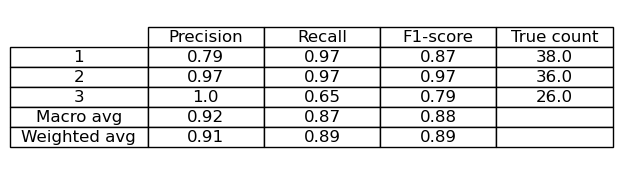
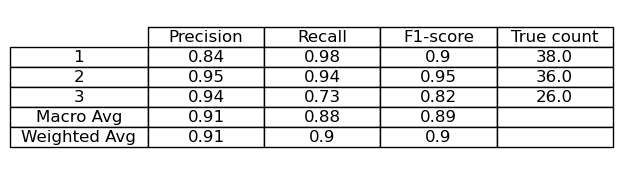
Completed code for q4e.

diff --git a/src/utils/_ml.py b/src/utils/_ml.py
@@ -2,6 +2,105 @@ import numpy as np
 import pandas as pd
 from sklearn.preprocessing import StandardScaler
 from sklearn.decomposition import PCA
+from sklearn.metrics import (
+    precision_recall_fscore_support,
+    accuracy_score,
+    confusion_matrix,
+)
+from sklearn.model_selection import StratifiedKFold
+from numpy.typing import NDArray
+
+
+def cross_validate_report(
+    X: NDArray,
+    y: NDArray,
+    model,
+    n_splits: int = 5,
+    random_state: int = 3438,
+):
+    """
+    1 - Take a model, and dataset
+    2 - Use k-fold cross validation to compute the classification report, confusion matrix and test set classification
+           error for each fold. The average of these values is returned.
+    """
+    kf = StratifiedKFold(n_splits=n_splits, shuffle=True, random_state=random_state)
+
+    accuracy_scores = np.array([])
+
+    precision_scores = np.empty((0, 5))
+    recall_scores = np.empty((0, 5))
+    f1_scores = np.empty((0, 5))
+    support_list = np.empty((0, 3))
+
+    # confusion matrix
+    cmatrix = np.zeros((3, 3))
+
+    for train_index, test_index in kf.split(X, y):
+        X_train, X_test = X[train_index], X[test_index]
+        y_test, y_pred = (
+            y[test_index],
+            model.fit(X_train, y[train_index]).predict(X_test),
+        )
+
+        cmatrix += confusion_matrix(y_test, y_pred, labels=[1, 2, 3], normalize='all')
+
+        precision, recall, f1_score, support = precision_recall_fscore_support(
+            y_test, y_pred, average=None
+        )
+
+        weighted_avg = precision_recall_fscore_support(
+            y_test, y_pred, average='weighted'
+        )[0:3]
+        macro_avg = precision_recall_fscore_support(y_test, y_pred, average='macro')[
+            0:3
+        ]
+
+        accuracy_scores = np.append(accuracy_scores, accuracy_score(y_test, y_pred))
+
+        precision_scores = np.vstack(
+            [
+                precision_scores,
+                np.concatenate([precision, [macro_avg[0]], [weighted_avg[0]]], axis=0),
+            ]
+        )
+
+        recall_scores = np.vstack(
+            [
+                recall_scores,
+                np.concatenate([recall, [macro_avg[1]], [weighted_avg[1]]], axis=0),
+            ]
+        )
+
+        f1_scores = np.vstack(
+            [
+                f1_scores,
+                np.concatenate([f1_score, [macro_avg[2]], [weighted_avg[2]]], axis=0),
+            ]
+        )
+
+        support_list = np.vstack([support_list, support])
+
+    report = pd.DataFrame(
+        {
+            'Precision': precision_scores.mean(axis=0),
+            'Recall': recall_scores.mean(axis=0),
+            'F1-score': f1_scores.mean(axis=0),
+            'True count': np.concatenate(
+                [np.round(support_list.mean(axis=0), 0), [0, 0]]
+            ),
+        },
+        index=['1', '2', '3', 'Macro Avg', 'Weighted Avg'],
+    )
+
+    cmatrix = pd.DataFrame(
+        cmatrix / n_splits, index=['1', '2', '3'], columns=['1', '2', '3']
+    )
+    cmatrix['Total'] = cmatrix.sum(axis=1)
+    cmatrix.loc['Total'] = cmatrix.sum(axis=0)
+
+    test_set_classification_error = 1 - accuracy_scores.mean()
+
+    return report, cmatrix, test_set_classification_error
 
 
 def identify_most_discriminative_features(

diff --git a/src/q4/scripts/_q4e.py b/src/q4/scripts/_q4e.py
@@ -1,0 +1,108 @@
+import os
+import pandas as pd
+from sklearn.ensemble import RandomForestClassifier
+from sklearn.model_selection import train_test_split
+import numpy as np
+import matplotlib.pyplot as plt
+from src.utils import (
+    format_axes,
+    save_fig,
+    cross_validate_report,
+    format_contingency_table,
+    create_table,
+)
+
+
+def plot_gini_importance(feature_importance: pd.DataFrame):
+    fig, ax = plt.subplots(figsize=(8, 5))
+
+    plt.plot(feature_importance['cumulative_importance'])
+
+    plt.xlabel('Number of Features')
+    plt.ylabel('Cumulative Gini Importance')
+
+    plt.axhline(y=0.95, color='grey', linestyle='--')
+    plt.axvline(x=319, color='grey', linestyle='--')
+
+    plt.text(330, 0.01, '319', fontsize=10, color='grey')
+    ax.autoscale(enable=True, tight=True, axis='x')
+
+    format_axes(ax)
+
+    save_fig(__file__, 'q4e_gini_importance.png')
+
+
+def compute_most_important_features(X: np.ndarray, y: np.ndarray):
+    X = X.copy()
+    y = y.copy()
+
+    # The `stratify=y` gives y_test.value_counts() of {1: 41, 2: 35, 3: 24}
+    X_train, X_test, y_train, y_test = train_test_split(
+        X, y, test_size=0.2, random_state=3438, stratify=y
+    )
+
+    clf = RandomForestClassifier(random_state=3438)
+
+    clf.fit(X_train, y_train)
+
+    feature_importance = (
+        pd.DataFrame(clf.feature_importances_)
+        .reset_index()
+        .rename(columns={0: 'gini_importance', 'index': 'feature'})
+        .sort_values('gini_importance', ascending=False)
+        .reset_index(drop=True)
+    )
+
+    feature_importance['feature'] = [
+        f'Fea{feature + 1}' for feature in feature_importance['feature']
+    ]
+    feature_importance['cumulative_importance'] = feature_importance[
+        'gini_importance'
+    ].cumsum()
+
+    most_importance_features = feature_importance[
+        feature_importance['cumulative_importance'].round(4) <= 0.95
+    ]
+
+    return feature_importance, most_importance_features
+
+
+def q4e():
+    cwd = os.path.dirname(os.path.realpath(__file__))
+
+    data = pd.read_csv(
+        f'{cwd}/../outputs/ADS_baselineDataset_preprocessed.csv', index_col=0
+    )
+
+    data, classifications = data[data.columns[:-1]], data['type']
+
+    X = data.copy().values
+    y = classifications.copy().values
+
+    feature_importance, most_importance_features = compute_most_important_features(X, y)
+    plot_gini_importance(feature_importance)
+
+    X_subset = data[most_importance_features['feature']].copy().values
+
+    report, cmatrix, test_set_classification_error = cross_validate_report(
+        X_subset, y, RandomForestClassifier(random_state=3438)
+    )
+
+    tbl = format_contingency_table(
+        np.round(cmatrix.values, 2),
+        columns=['1', '2', '3', 'Total (actual)'],
+        index=['1', '2', '3', 'Total (predictions)'],
+        figsize=(5, 2),
+    )
+
+    tbl[4, 3].set_facecolor('white')
+    tbl[4, 3].set_text_props(color='white')
+
+    save_fig(__file__, 'q4e_confusion_matrix.png')
+
+    tbl = create_table(report.round(2), figsize=(5, 2))
+
+    tbl[4, 3].set_text_props(color='white')
+    tbl[5, 3].set_text_props(color='white')
+
+    save_fig(__file__, 'q4e_classification_report.png')

diff --git a/src/q4/scripts/_q4c.py b/src/q4/scripts/_q4c.py
@@ -1,10 +1,13 @@
 import pandas as pd
 import os
 from sklearn.ensemble import RandomForestClassifier
-from sklearn.model_selection import train_test_split
-from sklearn.metrics import confusion_matrix, classification_report
 import numpy as np
-from src.utils import format_contingency_table, save_fig, create_table
+from src.utils import (
+    format_contingency_table,
+    save_fig,
+    create_table,
+    cross_validate_report,
+)
 
 
 def q4c():
@@ -18,23 +21,12 @@ def q4c():
     X = data.copy().values
     y = classifications.copy().values
 
-    # The `stratify=y` gives y_test.value_counts() of {1: 41, 2: 35, 3: 24}
-    X_train, X_test, y_train, y_test = train_test_split(
-        X, y, test_size=0.2, random_state=3438, stratify=y
+    report, cmatrix, test_set_classification_error = cross_validate_report(
+        X, y, RandomForestClassifier(random_state=3438), n_splits=5
     )
 
-    clf = RandomForestClassifier(random_state=3438)
-    clf.fit(X_train, y_train)
-
-    y_pred = clf.predict(X_test)
-
-    # Plot the confusion matrix
-    cmatrix = confusion_matrix(y_test, y_pred, labels=[1, 2, 3])
-    cmatrix = np.column_stack((cmatrix, cmatrix.sum(axis=1)))
-    cmatrix = np.row_stack((cmatrix, cmatrix.sum(axis=0)))
-
     tbl = format_contingency_table(
-        cmatrix,
+        np.round(cmatrix.values, 2),
         columns=['1', '2', '3', 'Total (actual)'],
         index=['1', '2', '3', 'Total (predictions)'],
         figsize=(5, 2),
@@ -45,21 +37,7 @@ def q4c():
 
     save_fig(__file__, 'q4c_confusion_matrix.png')
 
-    # Plot the classification report
-    report = classification_report(y_test, y_pred, output_dict=True)
-    report = pd.DataFrame(report).transpose().round(2)
-    report['support'] = report['support'].astype(int)
-    report = report.drop(index='accuracy')
-
-    report = report.rename(columns={'support': 'true count'})
-
-    def capitalise(strings: list[str]) -> list[str]:
-        return [string.capitalize() for string in strings]
-
-    report.columns = capitalise(report.columns)
-    report.index = capitalise(report.index)
-
-    tbl = create_table(report, figsize=(5, 2))
+    tbl = create_table(report.round(2), figsize=(5, 2))
 
     tbl[4, 3].set_text_props(color='white')
     tbl[5, 3].set_text_props(color='white')

diff --git a/src/q4/__main__.py b/src/q4/__main__.py
@@ -1,6 +1,7 @@
-from .scripts import q4b, q4c, q4d
+from .scripts import q4b, q4c, q4d, q4e
 
 if __name__ == '__main__':
-    q4b()
+    # q4b()
     q4c()
-    q4d()
+    # q4d()
+    q4e()

diff --git a/src/q4/scripts/__init__.py b/src/q4/scripts/__init__.py
@@ -1,3 +1,4 @@
 from ._q4b import q4b
 from ._q4c import q4c
 from ._q4d import q4d
+from ._q4e import q4e, compute_most_important_features
